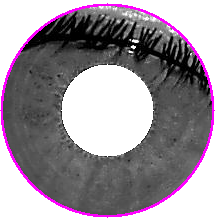
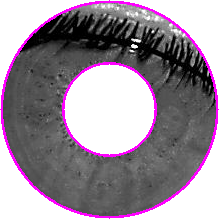
Affichage pupilles

diff --git a/iris_recognition.py b/iris_recognition.py
@@ -92,6 +92,7 @@ class IrisDetection:
                     self.mask_1, center, radius, (255, 255, 255), -1)
                 self.pupil_1 = (center[0], center[1], radius)
                 cv.circle(self.img_loaded_1, center, radius, (255, 0, 255), 3)
+        cv.imwrite("pupil1.png", self.img_loaded_1)
 
         # Image 2
 
@@ -113,6 +114,7 @@ class IrisDetection:
                     self.mask_3, center, radius, (255, 255, 255), -1)
                 self.pupil_2 = (center[0], center[1], radius)
                 cv.circle(self.img_loaded_2, center, radius, (255, 0, 255), 3)
+        cv.imwrite("pupil2.png", self.img_loaded_2)
 
     def detect_iris(self):
         # La distance minimum entre deux cercles est donnée par le rayon de la pupille * 8 afin d'éviter
@@ -166,8 +168,7 @@ class IrisDetection:
         cv.imwrite("mask_2.png", result2)
 
     def display(self):
-        numpy_concat_originals = np.concatenate(
-            (self.original_1, self.original_2), axis=1)
+
         numpy_concat_grey = np.concatenate(
             (self.img_gray_1, self.img_gray_2), axis=1)
         numpy_concat_gauss = np.concatenate(
@@ -176,13 +177,18 @@ class IrisDetection:
             (self.img_edge_1, self.img_edge_2), axis=1)
         numpy_concat_binary = np.concatenate(
             (self.binary_1, self.binary_2), axis=1)
+
+        pupil1 = cv.imread("pupil1.png")
+        pupil2 = cv.imread("pupil2.png")
+        numpy_concat_pupils = np.concatenate(
+            (pupil1, pupil2), axis=1)
         numpy_concat_iris = np.concatenate(
             (self.img_loaded_1, self.img_loaded_2), axis=1)
 
         ver1 = np.concatenate(
             (numpy_concat_grey, numpy_concat_gauss, numpy_concat_canny, numpy_concat_binary), axis=0)
-        ver2 = numpy_concat_iris
-        # vertical = np.column_stack((ver1, ver2))
+        ver2 = np.concatenate((numpy_concat_pupils, numpy_concat_iris), axis=0)
+
         cv.imshow("Images grises -> Gauss -> Canny -> binaires", ver1)
         cv.imshow("Images iris", ver2)
         cv.waitKey(0)
@@ -266,7 +272,7 @@ class IrisRecognition():
             cv.WARP_POLAR_LINEAR)
         polar_img = cv.rotate(polar_img, cv.ROTATE_90_COUNTERCLOCKWISE)
 
-        polar_img = polar_img[int(polar_img.shape[0] / 2): polar_img.shape[0], 0: polar_img.shape[1]]
+        polar_img = polar_img[int(polar_img.shape[0] / 2)                              : polar_img.shape[0], 0: polar_img.shape[1]]
         polar_img = cv.cvtColor(polar_img, cv.COLOR_BGR2GRAY)
         self.polar_1 = polar_img
 
@@ -322,10 +328,12 @@ class IrisRecognition():
 
 if __name__ == "__main__":
     Tk().withdraw()
-    tk.messagebox.showinfo(title="Iris Recognition", message="Choisissez un premier iris")
+    tk.messagebox.showinfo(title="Iris Recognition",
+                           message="Choisissez un premier iris")
     filename_1 = askopenfilename(title="Choisir un iris 1")
 
-    tk.messagebox.showinfo(title="Iris Recognition", message="Choisissez un second iris")
+    tk.messagebox.showinfo(title="Iris Recognition",
+                           message="Choisissez un second iris")
     filename_2 = askopenfilename(title="Choisir un iris 2")
     data = IrisDetection(filename_1, filename_2).start()
     IrisRecognition('mask_1.png', 'mask_2.png',
